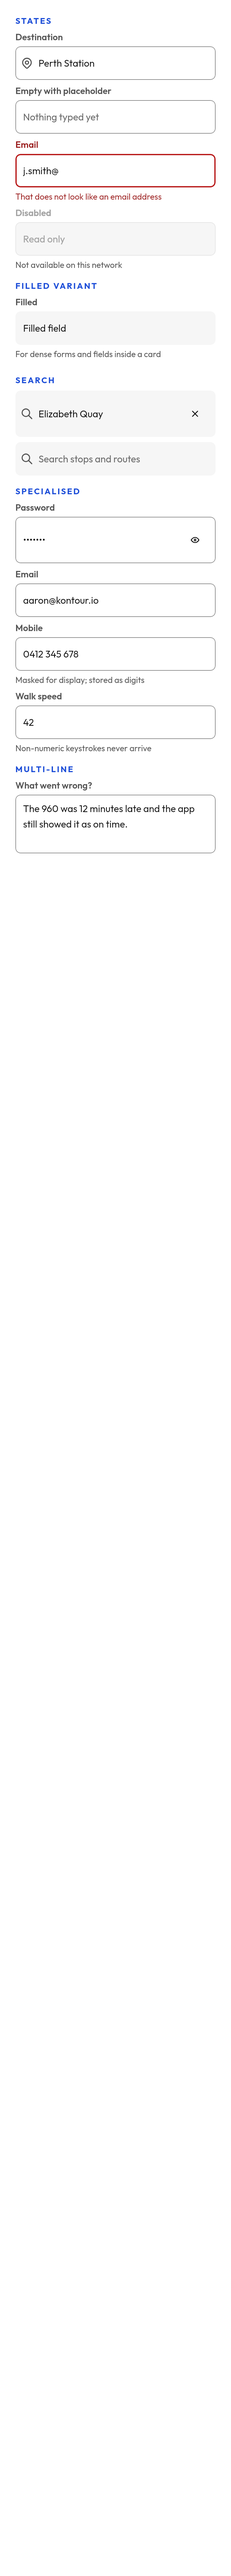
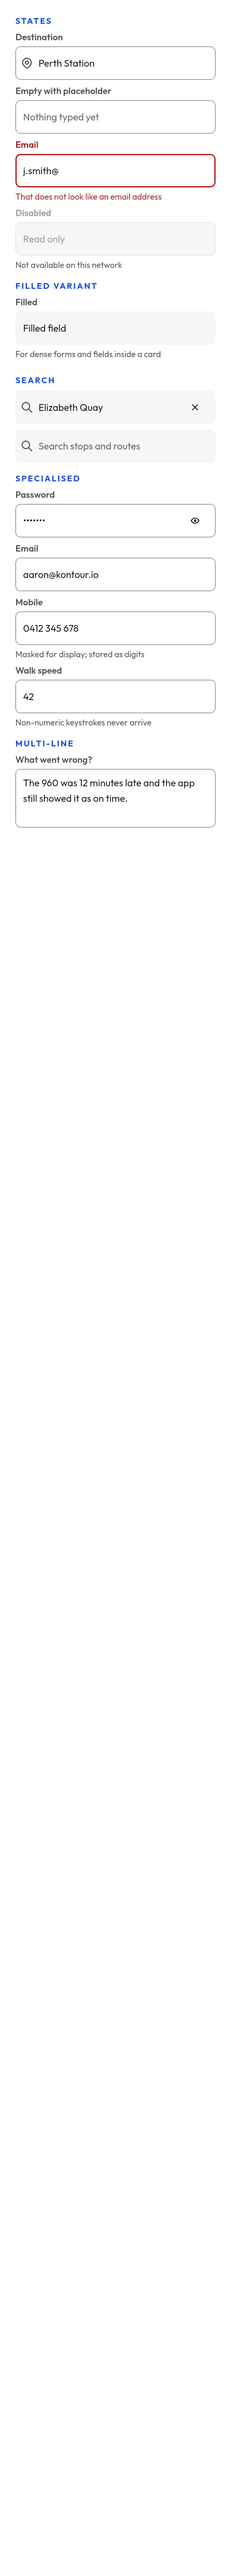
Give every single-line field the same height
`FieldScaffold` states its height as `defaultMinSize(minHeight =
controlHeightLarge)` — 52dp — and then padded the frame 12dp top and
bottom. `defaultMinSize` is a minimum and a `Row` grows to its tallest
child, so the padding applied to whatever a caller had put in a slot,
and a slot routinely holds an `IconButton`, which brings
`minimumTouchTarget` with it. 12 + 48 + 12 is 72dp against the 52 of
every field without one.

So on a phone a `PasswordField` with a reveal toggle stood 20dp taller
than the field above it, and a `SearchField` grew by 20dp the moment
the user typed the first character, because that is when its clear
button appears. `AnimatedVisibility` fades and scales that button but
does not animate layout, so it was a jump, and it took the whole page
below it along.

A 48dp target fits inside a 52dp field with room to spare. It only did
not fit because the padding was outside it. The vertical padding now
belongs to the text — an inner row carrying `weight(1f)` so `content`'s
own weight still means "the rest of the field" — and the frame is
`max(52dp, text + 24dp)`, which is 52dp for every single-line field on
every platform. The touch target is kept whole rather than relocated,
so this needs none of `LocalTouchTargetOwnedByParent`.

`phone/text.png` is the one golden that moves: the password field goes
from 143px to 103px and the page shortens by 40px. It is also the
uncomfortable part of this. Round 11 taught the phone renders to use
[…]

diff --git a/ui/src/commonTest/kotlin/io/kontour/ui/components/text/FieldHeightTest.kt b/ui/src/commonTest/kotlin/io/kontour/ui/components/text/FieldHeightTest.kt
@@ -1,0 +1,183 @@
+package io.kontour.ui.components.text
+
+import androidx.compose.foundation.layout.Box
+import androidx.compose.foundation.layout.width
+import androidx.compose.foundation.text.input.TextFieldState
+import androidx.compose.foundation.text.input.rememberTextFieldState
+import androidx.compose.runtime.Composable
+import androidx.compose.runtime.CompositionLocalProvider
+import androidx.compose.ui.Modifier
+import androidx.compose.ui.platform.testTag
+import androidx.compose.ui.test.ExperimentalTestApi
+import androidx.compose.ui.test.onNodeWithTag
+import androidx.compose.ui.test.runComposeUiTest
+import androidx.compose.ui.unit.dp
+import com.composables.icons.tabler.Tabler
+import com.composables.icons.tabler.outline.Eye
+import com.composables.icons.tabler.outline.EyeOff
+import com.composables.icons.tabler.outline.Search
+import com.composables.icons.tabler.outline.X
+import io.kontour.ui.overlay.OverlayHost
+import io.kontour.ui.theme.KontourTheme
+import io.kontour.ui.theme.LocalSizing
+import io.kontour.ui.theme.Theme
+import kotlin.test.Test
+import kotlin.test.assertEquals
+import kotlin.test.assertTrue
+
+/**
+ * Every single-line field is the same height, on every platform.
+ *
+ * They were not. `FieldScaffold` states its height as
+ * `defaultMinSize(minHeight = controlHeightLarge)` — 52dp — and then padded the
+ * frame 12dp top and bottom. `defaultMinSize` is a *minimum* and a `Row` grows
+ * to its tallest child, so the padding applied to whatever a caller had put in a
+ * slot; and a slot routinely holds an `IconButton`, which brings
+ * `minimumTouchTarget` with it. 12 + 48 + 12 = **72dp**, against 52 for every
+ * field without one.
+ *
+ * So on a phone a `PasswordField` with a reveal toggle stood 20dp taller than
+ * the field above it, and a `SearchField` **grew by 20dp the moment the user
+ * typed the first character** — because that is when its clear button appears.
+ *
+ * ### Why this needs `LocalSizing` overridden
+ *
+ * `platformMinTouchTarget` is 48dp on Android, 44 on iOS and web, and **24dp on
+ * the JVM**. Every test here runs on the JVM, where nothing in a field slot is
+ * smaller than 24dp — so `minimumTouchTarget` expands nothing, the arithmetic
+ * comes out at 52dp in every case, and this whole class of defect is invisible
+ * to an ordinary test and to every desktop golden. Overriding the sizing is what
+ * makes the JVM answer the question a phone asks; a version of this test that
+ * leaves it alone passes against the defect, which was checked rather than
+ * assumed.
+ *
+ * The phone goldens are the exception, and worth being honest about: Round 11
+ * taught `PhoneWidthTest` to render at Android's 48dp target for exactly this
+ * reason, so `phone/text.png` has been showing a 72dp password field beside a
+ * 52dp email field for as long as the fault existed. It was not unobservable
+ * there. It was unread — which is the harder failure of the two, and the reason
+ * this is a measurement with a number in its message rather than one more
+ * picture to look at.
+ */
+@OptIn(ExperimentalTestApi::class)
+class FieldHeightTest {
+
+    @Test
+    fun everySingleLineFieldIsTheSameHeight() {
+        val heights = FieldsUnderTest.associateWith { field -> heightOf { field.content() } }
+
+        val distinct = heights.values.distinct()
+        assertTrue(
+            distinct.size == 1,
+            "single-line fields came out at ${distinct.sorted().joinToString("dp, ")}dp: " +
+                heights.entries.joinToString { "${it.key.name} ${it.value}dp" } +
+                ". They share one frame and one height token, and a form of them " +
+                "is a column of boxes that has to line up.",
+        )
+        assertEquals(
+            ExpectedHeight,
+            distinct.single(),
+            "the shared height is not `controlHeightLarge` any more",
+        )
+    }
+
+    /**
+     * Typing into a search field does not resize it.
+     *
+     * The clear button is revealed by the first character, so this is the same
+     * defect seen from the side that a user actually notices: the field, and
+     * everything laid out under it, jumped 20dp downward as they started to
+     * type. `AnimatedVisibility` fades and scales the button but does not
+     * animate the layout, so it was a jump rather than a slide.
+     */
+    @Test
+    fun aSearchFieldDoesNotGrowWhenYouTypeInIt() {
+        val empty = heightOf {
+            SearchField(state = rememberTextFieldState(""), clearIcon = Tabler.Outline.X)
+        }
+        val typed = heightOf {
+            SearchField(state = rememberTextFieldState("Perth"), clearIcon = Tabler.Outline.X)
+        }
+
+        assertEquals(
+            empty,
+            typed,
+            "a search field is ${empty}dp empty and ${typed}dp with a word in it — " +
+                "it changes size under the user as they type, and takes the page " +
+                "below it with it",
+        )
+    }
+
+    /** One field to render, named so a failure says which one. */
+    private class Field(val name: String, val content: @Composable () -> Unit)
+
+    private val FieldsUnderTest = listOf(
+        Field("TextField") { TextField(state = rememberTextFieldState("Perth")) },
+        Field("TextField+trailingIcon") {
+            TextField(state = rememberTextFieldState("Perth"), trailingIcon = Tabler.Outline.Search)
+        },
+        Field("SearchField") {
+            SearchField(state = rememberTextFieldState("Perth"), clearIcon = Tabler.Outline.X)
+        },
+        Field("PasswordField") {
+            PasswordField(
+                state = rememberTextFieldState("hunter2"),
+                revealIcon = Tabler.Outline.Eye,
+                hideIcon = Tabler.Outline.EyeOff,
+            )
+        },
+        Field("EmailField") { EmailField(state = rememberTextFieldState("a@b.co")) },
+        Field("NumberField") { NumberField(state = rememberTextFieldState("42")) },
+        Field("PhoneField") { PhoneField(state = rememberTextFieldState("0400")) },
+        Field("Select") {
+            Select(
+                value = "Tomorrow",
+                onValueChange = {},
+                options = listOf("Today", "Tomorrow"),
+            )
+        },
+    )
+
+    /**
+     * The height of one field, in dp, with a phone's touch target in force.
+     *
+     * Measured from the tagged wrapper rather than from the field's own node,
+     * because the frame is one row of a `Column` that also holds the label and
+     * the helper slot, and those are not what is under test.
+     */
+    private fun heightOf(content: @Composable () -> Unit): Int {
+        var height = -1
+
+        runComposeUiTest {
+            setContent {
+                KontourTheme(darkTheme = false, reduceMotion = true) {
+                    CompositionLocalProvider(
+                        LocalSizing provides Theme.sizing.copy(minTouchTarget = PhoneTarget)
+                    ) {
+                        // A `Select` renders its menu into an overlay host and
+                        // fails loudly without one. It never opens here, but the
+                        // host has to exist for the field to compose at all.
+                        OverlayHost {
+                            Box(Modifier.width(320.dp).testTag(Tag)) { content() }
+                        }
+                    }
+                }
+            }
+            val density = androidx.compose.ui.unit.Density(1f)
+            val px = onNodeWithTag(Tag).fetchSemanticsNode().size.height
+            height = with(density) { px.toDp().value.toInt() }
+        }
+
+        return height
+    }
+
+    private companion object {
+        const val Tag = "field"
+
+        /** Android's minimum. iOS's 44dp reproduces the same fault one dp smaller. */
+        val PhoneTarget = 48.dp
+
+        /** `Theme.sizing.controlHeightLarge`, which is what a field's frame is. */
+        const val ExpectedHeight = 52
+    }
+}

diff --git a/ui/src/commonMain/kotlin/io/kontour/ui/components/text/FieldScaffold.kt b/ui/src/commonMain/kotlin/io/kontour/ui/components/text/FieldScaffold.kt
@@ -130,6 +130,8 @@ internal fun FieldScaffold(
                 // not fill its own box, so an icon padded like text reads as
                 // further in than the text beside it — see
                 // `TextFieldMetrics.iconPadding` for the measurement.
+                //
+                // Horizontally only. See the inner row.
                 .padding(
                     start = if (leading != null || leadingIcon != null) {
                         metrics.iconPadding
@@ -141,24 +143,54 @@ internal fun FieldScaffold(
                     } else {
                         metrics.horizontalPadding
                     },
-                    top = metrics.verticalPadding,
-                    bottom = metrics.verticalPadding,
                 ),
             horizontalArrangement = Arrangement.spacedBy(metrics.gap),
             verticalAlignment = Alignment.CenterVertically,
         ) {
             leading?.invoke()
 
-            if (leadingIcon != null) {
-                Icon(
-                    imageVector = leadingIcon,
-                    contentDescription = null,
-                    tint = if (enabled) colors.label else colors.contentDisabled,
-                    size = Theme.sizing.iconMedium,
-                )
-            }
+            /**
+             * The vertical padding belongs to the **text**, not to the frame.
+             *
+             * `defaultMinSize` is a minimum and a `Row` grows to its tallest
+             * child, so padding the frame meant padding whatever a caller put in
+             * a slot — and a slot routinely holds an `IconButton`, which carries
+             * `minimumTouchTarget`: 48dp on Android, 44 on iOS, 24 on the JVM.
+             * 12 + 48 + 12 is 72, against the 52 of every field without one. So
+             * a `PasswordField` with a reveal toggle stood 20dp taller than the
+             * field above it, and a `SearchField` **grew by 20dp the moment you
+             * typed the first character**, because that is when its clear button
+             * appears. On desktop all of it clamped back to 52 and no golden or
+             * geometry test could see any of it.
+             *
+             * A 48dp target fits inside a 52dp field with room to spare. It only
+             * did not fit because the padding was applied outside it. Moved in
+             * here, the frame is `max(52dp, text + 24dp)` — which is 52dp for
+             * every single-line field on every platform — and the touch target
+             * is kept whole rather than relocated.
+             *
+             * `weight(1f)` so `content`'s own `weight(1f)` still means "the rest
+             * of the field", and the gap arrangement is repeated so a leading
+             * icon sits exactly where it did.
+             */
+            Row(
+                modifier = Modifier
+                    .weight(1f)
+                    .padding(vertical = metrics.verticalPadding),
+                horizontalArrangement = Arrangement.spacedBy(metrics.gap),
+                verticalAlignment = Alignment.CenterVertically,
+            ) {
+                if (leadingIcon != null) {
+                    Icon(
+                        imageVector = leadingIcon,
+                        contentDescription = null,
+                        tint = if (enabled) colors.label else colors.contentDisabled,
+                        size = Theme.sizing.iconMedium,
+                    )
+                }
 
-            content()
+                content()
+            }
 
             trailing?.invoke()
         }
